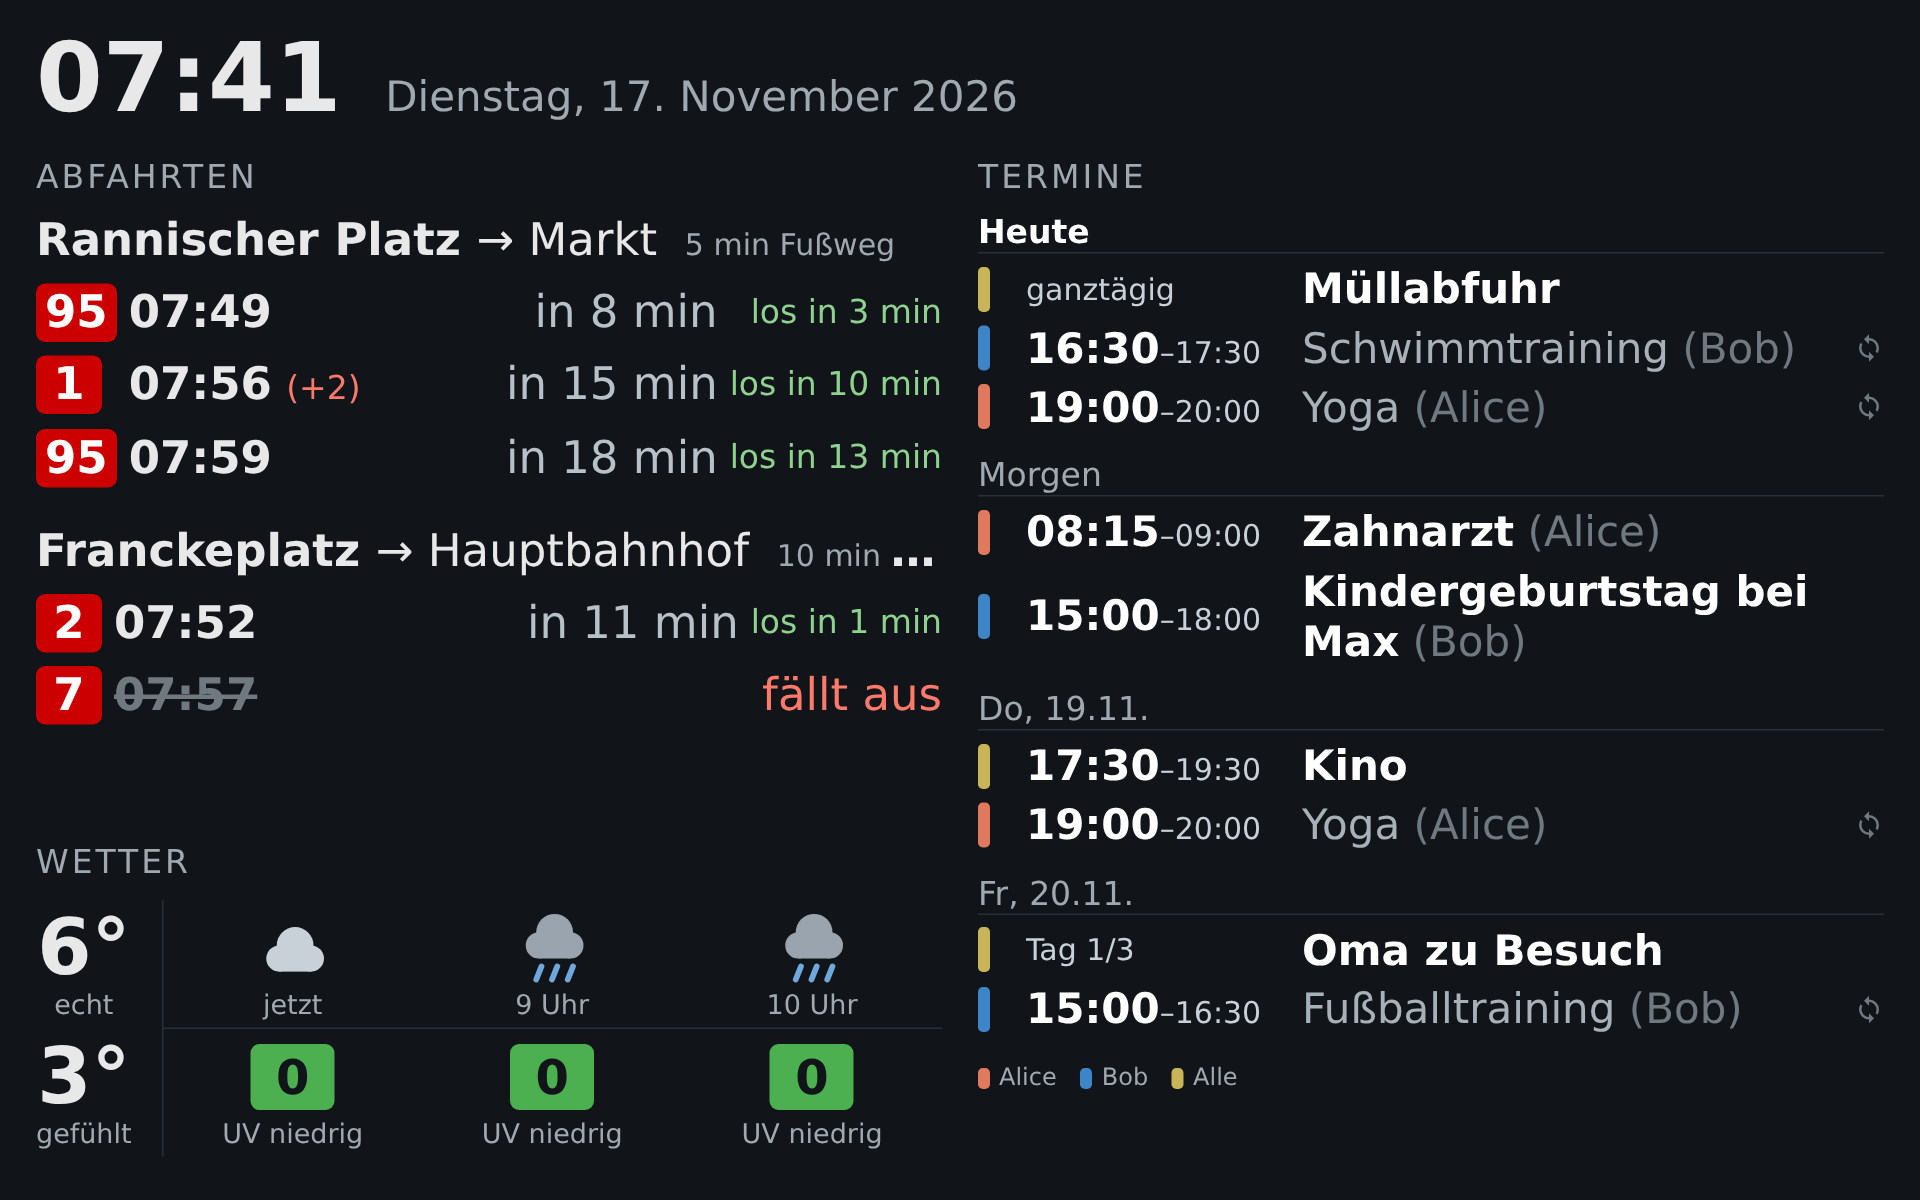
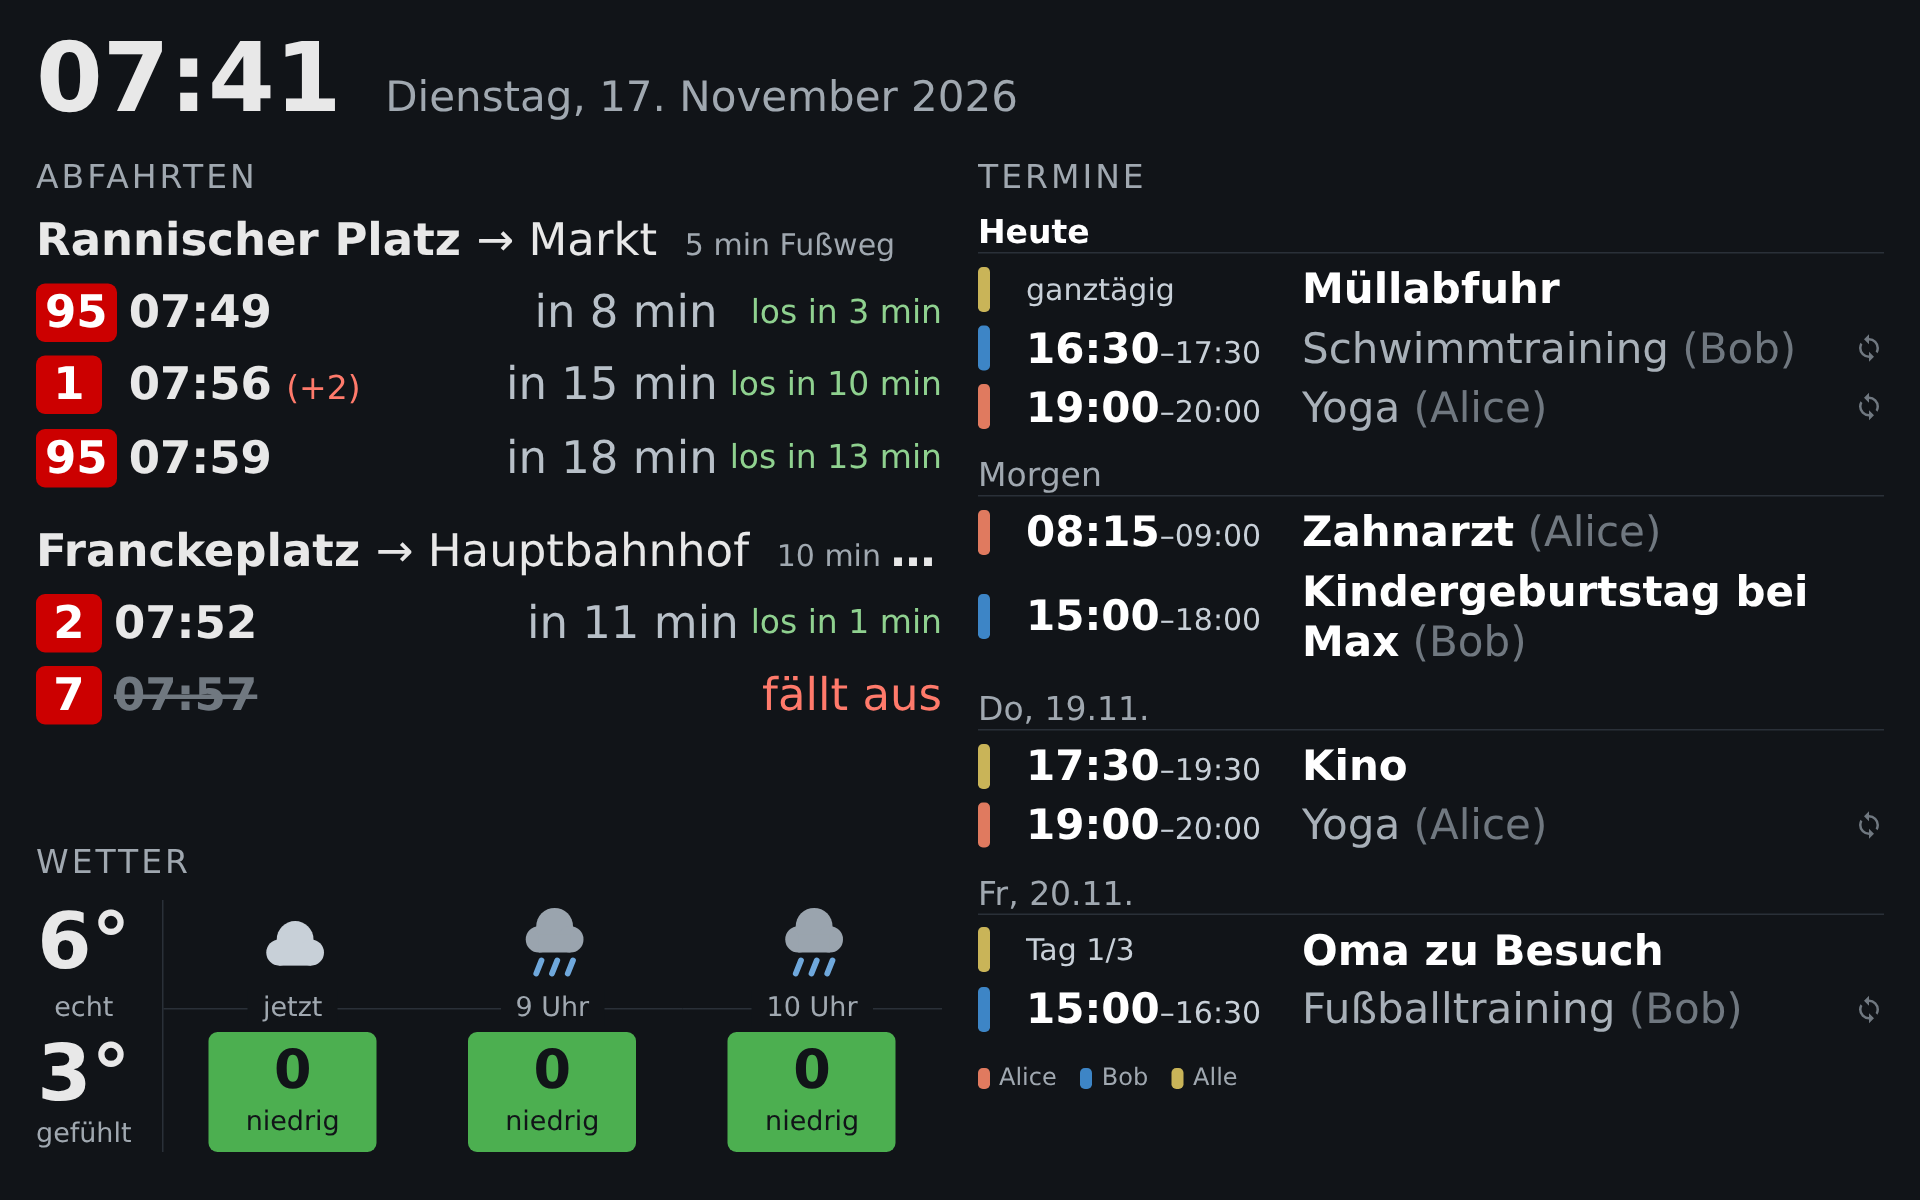
Put the weather times on the line between weather and UV index
The times hold for both rows, so they sit on the divider instead of below
the icons. The UV badge now carries the number and its category ("4 /
mäßig") without the "UV" prefix, as high as the felt temperature tile.

diff --git a/src/home_dashboard/static/style.css b/src/home_dashboard/static/style.css
@@ -410,7 +410,8 @@ body {
 }
 
 /* Weather: 4x2 tiles. Left the temperatures (real, felt), then the weather (top) and the UV index
- * (bottom) now and in about 1 and 2 hours; light lines separate the three parts */
+ * (bottom) now and in about 1 and 2 hours. Light lines separate the three parts; the times sit on
+ * the line between weather and UV. */
 
 .weather-grid {
   width: 100%;
@@ -418,7 +419,7 @@ body {
 }
 
 .weather-grid td {
-  padding: 0.25rem 0;
+  padding: 0;
   text-align: center;
   vertical-align: top;
   white-space: nowrap;
@@ -432,17 +433,11 @@ body {
 }
 
 .weather-grid .weather-slot,
-.weather-grid .weather-uv,
 .weather-grid .weather-empty {
   width: 33%;
 }
 
-.weather-grid .weather-uv,
-.weather-grid tr + tr .weather-empty {
-  border-top: 1px solid #2a3038;
-}
-
-/* Every tile: a 3.5rem high value (temperature, icon, UV badge), a label below */
+/* Every value (temperature, icon) is 3.5rem high, every label 1.5rem */
 .weather-value {
   display: block;
   font-size: 3.25rem;
@@ -460,19 +455,53 @@ body {
 .weather-label {
   display: block;
   font-size: 1.125rem;
+  line-height: 1.5rem;
   color: #a0a8b0;
 }
 
-/* UV index in the colours of the WHO scale */
+/* The line between weather and UV, the time on it (2rem high, as "echt" with its margins) */
+.weather-grid .weather-divider {
+  padding: 0.25rem 0;
+  vertical-align: middle;
+  background: -webkit-linear-gradient(#2a3038, #2a3038) no-repeat center;
+  background: linear-gradient(#2a3038, #2a3038) no-repeat center;
+  background-size: 100% 1px;
+}
+
+.weather-time .weather-label {
+  display: inline-block;
+  padding: 0 0.625rem;
+  background: #111418;
+}
+
+.weather-actual-label {
+  margin: 0.25rem 0;
+}
+
+/* UV index with its category on a badge in the colours of the WHO scale, as high as a temperature
+ * with its label */
 .uv {
   display: block;
-  width: 3.5rem;
-  margin: 0.375rem auto;
-  font-size: 2rem;
-  line-height: 2.75rem;
-  font-weight: bold;
+  width: 7rem;
+  height: 5rem;
+  margin: 0 auto;
+  box-sizing: border-box;
+  padding-top: 0.25rem;
   border-radius: 0.375rem;
   color: #111418;
+}
+
+.uv-value {
+  display: block;
+  font-size: 2.25rem;
+  line-height: 2.75rem;
+  font-weight: bold;
+}
+
+.uv-label {
+  display: block;
+  font-size: 1.125rem;
+  line-height: 1.5rem;
 }
 
 .uv-low { background: #4caf50; }

diff --git a/src/home_dashboard/templates/widgets/weather.html b/src/home_dashboard/templates/widgets/weather.html
@@ -3,22 +3,26 @@
 {% if weather.unavailable %}
 <p class="notice">Wetter nicht verfügbar</p>
 {% else %}
-{#- 4x2 tiles: temperatures | weather now, +1 h, +2 h / UV index at the same times.
-    A table keeps rows and columns aligned without Grid (old WebViews). #}
+{#- 4x2 tiles: temperatures | weather now, +1 h, +2 h / UV index at the same times. The times sit on
+    the line between weather and UV, they hold for both. A table keeps rows and columns aligned
+    without Grid (old WebViews). #}
 {%- set missing = range(3 - weather.slots | length) %}
 <table class="weather-grid">
   <tr>
-    <td class="weather-temperature">
+    <td class="weather-temperature" rowspan="2">
       <span class="weather-value weather-actual">{{ weather.temperature }}°</span>
-      <span class="weather-label">echt</span>
+      <span class="weather-label weather-actual-label">echt</span>
     </td>
     {% for slot in weather.slots %}
-    <td class="weather-slot">
-      {{ icons.icon(slot.condition.icon, slot.condition.label) }}
-      <span class="weather-label weather-slot-label">{{ slot.label }}</span>
-    </td>
+    <td class="weather-slot">{{ icons.icon(slot.condition.icon, slot.condition.label) }}</td>
     {% endfor %}
     {% for _ in missing %}<td class="weather-empty"></td>{% endfor %}
+  </tr>
+  <tr>
+    {% for slot in weather.slots %}
+    <td class="weather-divider weather-time"><span class="weather-label">{{ slot.label }}</span></td>
+    {% endfor %}
+    {% for _ in missing %}<td class="weather-divider"></td>{% endfor %}
   </tr>
   <tr>
     <td class="weather-temperature">
@@ -28,8 +32,10 @@
     {% for slot in weather.slots %}
     <td class="weather-uv">
       {%- if slot.uv %}
-      <span class="uv uv-{{ slot.uv.level }}" title="UV-Index {{ slot.uv.value }}: {{ slot.uv.label }}">{{ slot.uv.value }}</span>
-      <span class="weather-label weather-uv-label">UV {{ slot.uv.label }}</span>
+      <span class="uv uv-{{ slot.uv.level }}" title="UV-Index {{ slot.uv.value }}: {{ slot.uv.label }}">
+        <span class="uv-value">{{ slot.uv.value }}</span>
+        <span class="uv-label">{{ slot.uv.label }}</span>
+      </span>
       {%- endif %}
     </td>
     {% endfor %}

diff --git a/tests/html.py b/tests/html.py
@@ -143,13 +143,13 @@ def titles(events: list[dict]) -> list[str]:
 
 
 class _WeatherParser(HTMLParser):
-    """The tiles: temperatures now (by label), the slots (now, +1 h, +2 h) with label, icon and its
-    description, and the UV index at the same times."""
+    """The tiles: temperatures now (by label), the slots (now, +1 h, +2 h) with icon and its
+    description, the times on the line below them, and the UV index at the same times."""
 
     def __init__(self) -> None:
         super().__init__()
-        self.weather: dict = {"notices": []}
-        self.tiles: dict[str, list[dict]] = {"temperature": [], "slot": [], "uv": []}
+        self.notices: list[str] = []
+        self.tiles: dict[str, list[dict]] = {"temperature": [], "slot": [], "time": [], "uv": []}
         self._tile: dict | None = None
         self._field: str | None = None
         self._text: list[str] = []
@@ -159,7 +159,8 @@ class _WeatherParser(HTMLParser):
         classes = (attributes.get("class") or "").split()
         tiles = {
             "weather-temperature": ("temperature", {"value": "", "label": ""}),
-            "weather-slot": ("slot", {"label": "", "icon": None, "condition": ""}),
+            "weather-slot": ("slot", {"icon": None, "condition": ""}),
+            "weather-time": ("time", {"label": ""}),
             "weather-uv": ("uv", {"value": None, "level": None, "label": None}),
         }
         if tag == "td":
@@ -172,18 +173,20 @@ class _WeatherParser(HTMLParser):
             self._start("condition")
         elif "notice" in classes:
             self._start("notice")
-        elif self._tile is not None and {"weather-value", "uv"} & set(classes):
-            if "uv" in classes:
-                self._tile["level"] = next(c.removeprefix("uv-") for c in classes if c != "uv")
+        elif self._tile is None:
+            return
+        elif "uv" in classes:
+            self._tile["level"] = next(c.removeprefix("uv-") for c in classes if c != "uv")
+        elif {"weather-value", "uv-value"} & set(classes):
             self._start("value")
-        elif self._tile is not None and "weather-label" in classes:
+        elif {"weather-label", "uv-label"} & set(classes):
             self._start("label")
 
     def handle_endtag(self, tag: str) -> None:
         if self._field is not None and tag in ("span", "title", "p"):
             text = " ".join("".join(self._text).split())
             if self._field == "notice":
-                self.weather["notices"].append(text)
+                self.notices.append(text)
             else:
                 self._tile[self._field] = text
             self._field = None
@@ -200,12 +203,19 @@ class _WeatherParser(HTMLParser):
 
 def weather(html: str) -> dict:
     """{temperatures: {"echt": "9°", "gefühlt": "6°"} (empty if not shown),
-    slots: [{label, icon, condition}],
-    uv: [{value: "1", level: "low", label: "UV niedrig"}] (None each without a UV index),
+    slots: [{label: "jetzt", icon, condition}],
+    uv: [{value: "1", level: "low", label: "niedrig"}] (None each without a UV index),
     notices: [text]}"""
     parser = _WeatherParser()
     parser.feed(html)
     tiles = parser.tiles
-    parser.weather["temperatures"] = {t["label"]: t["value"] for t in tiles["temperature"]}
-    parser.weather["slots"], parser.weather["uv"] = tiles["slot"], tiles["uv"]
-    return parser.weather
+    assert len(tiles["time"]) == len(tiles["slot"]) == len(tiles["uv"]), tiles
+    return {
+        "temperatures": {tile["label"]: tile["value"] for tile in tiles["temperature"]},
+        "slots": [
+            {"label": time["label"], **slot}
+            for time, slot in zip(tiles["time"], tiles["slot"], strict=True)
+        ],
+        "uv": tiles["uv"],
+        "notices": parser.notices,
+    }

diff --git a/tests/test_layout.py b/tests/test_layout.py
@@ -196,21 +196,40 @@ def test_wide_temperatures_do_not_push_into_the_weather_icons(open_dashboard, op
     assert_fits(page)
 
 
-WEATHER_TILES = """() => [...document.querySelectorAll('.weather-grid tr')].map((row) =>
-    [...row.children].map((cell) => {
-        const box = cell.getBoundingClientRect();
-        return {left: box.left, right: box.right, top: box.top, bottom: box.bottom};
-    }))"""
+WEATHER_TILES = """() => {
+    const box = (el) => {
+        const b = el.getBoundingClientRect();
+        return {left: b.left, right: b.right, top: b.top, bottom: b.bottom};
+    };
+    const all = (selector) => [...document.querySelectorAll(selector)].map(box);
+    return {
+        rows: [...document.querySelectorAll('.weather-grid tr')]
+            .map((row) => [...row.children].map(box)),
+        icons: all('.weather-slot .weather-icon'),
+        times: all('.weather-time .weather-label'),
+        uv: all('.uv'),
+        real: box(document.querySelector('.weather-actual-label')),
+    };
+}"""
 
 
 @pytest.mark.parametrize("viewport", VIEWPORTS, ids=lambda size: f"{size[0]}x{size[1]}")
-def test_weather_tiles_form_a_grid_of_four_by_two(open_dashboard, viewport):
-    rows = open_dashboard(viewport).evaluate(WEATHER_TILES)
+def test_weather_tiles_form_a_grid_of_four_by_two_with_the_times_on_the_line(
+    open_dashboard, viewport
+):
+    tiles = open_dashboard(viewport).evaluate(WEATHER_TILES)
 
-    assert [len(row) for row in rows] == [4, 4]
-    top, bottom = rows
+    top, line, bottom = tiles["rows"]
+    assert [len(row) for row in (top, line, bottom)] == [4, 3, 4]
     for upper, lower in zip(top, bottom, strict=True):
         assert (upper["left"], upper["right"]) == pytest.approx((lower["left"], lower["right"]))
-        assert upper["bottom"] <= lower["top"] + 1
+    for upper, middle in zip(top[1:], line, strict=True):
+        assert (upper["left"], upper["right"]) == pytest.approx((middle["left"], middle["right"]))
     widths = [tile["right"] - tile["left"] for tile in top[1:]]
     assert max(widths) - min(widths) <= 1, "weather and UV tiles share the width equally"
+
+    for icon, time, uv, cell in zip(tiles["icons"], tiles["times"], tiles["uv"], line, strict=True):
+        assert icon["bottom"] <= time["top"] and time["bottom"] <= uv["top"]
+        middle = (time["top"] + time["bottom"]) / 2
+        assert middle == pytest.approx((cell["top"] + cell["bottom"]) / 2, abs=1), "on the line"
+        assert time["top"] == pytest.approx(tiles["real"]["top"], abs=1), "level with 'echt'"

diff --git a/tests/test_weather.py b/tests/test_weather.py
@@ -61,21 +61,21 @@ def test_shows_temperature_now_and_the_weather_and_uv_index_now_in_one_and_in_tw
     ]
     # current 0.9, 16 o'clock 0.2, 17 o'clock 0.0
     assert [tile["value"] for tile in widget["uv"]] == ["1", "0", "0"]
-    assert widget["uv"][0] == {"value": "1", "level": "low", "label": "UV niedrig"}
+    assert widget["uv"][0] == {"value": "1", "level": "low", "label": "niedrig"}
 
 
 @pytest.mark.parametrize(
     ("uv_index", "shown_as", "level", "label"),
     [
-        (0.0, "0", "low", "UV niedrig"),
-        (2.49, "2", "low", "UV niedrig"),
-        (2.5, "3", "moderate", "UV mäßig"),  # rounded half up, then categorized
-        (5.4, "5", "moderate", "UV mäßig"),
-        (6.0, "6", "high", "UV hoch"),
-        (7.6, "8", "very-high", "UV sehr hoch"),
-        (10.4, "10", "very-high", "UV sehr hoch"),
-        (11.0, "11", "extreme", "UV extrem"),
-        (13.2, "13", "extreme", "UV extrem"),
+        (0.0, "0", "low", "niedrig"),
+        (2.49, "2", "low", "niedrig"),
+        (2.5, "3", "moderate", "mäßig"),  # rounded half up, then categorized
+        (5.4, "5", "moderate", "mäßig"),
+        (6.0, "6", "high", "hoch"),
+        (7.6, "8", "very-high", "sehr hoch"),
+        (10.4, "10", "very-high", "sehr hoch"),
+        (11.0, "11", "extreme", "extrem"),
+        (13.2, "13", "extreme", "extrem"),
     ],
 )
 def test_uv_index_is_colour_coded_on_the_who_scale(

diff --git a/docs/requirements.md b/docs/requirements.md
@@ -67,12 +67,13 @@ when leaving the house or planning the week. The dashboard is extensible: new wi
 - 4x2 tiles, nothing more detailed, three parts separated by light lines:
   - Left: the current temperature for the home location (`home.lat` / `home.lon`), the measured one on
     top ("9°", labelled "echt"), the felt one below ("6°", labelled "gefühlt").
-  - Top right: the weather (icon) now and for the full hours nearest to now + 1 hour and now + 2 hours,
-    labelled with their clock time ("jetzt", "16 Uhr", "17 Uhr"). The German description
-    ("Leicht bewölkt") is the icon's title.
-  - Bottom right: the UV index at the same three times, a whole number on a badge in the colours of the
-    WHO scale, labelled with its category ("UV niedrig" 0-2, "mäßig" 3-5, "hoch" 6-7, "sehr hoch" 8-10,
+  - Top right: the weather (icon) now and for the full hours nearest to now + 1 hour and now + 2 hours.
+    The German description ("Leicht bewölkt") is the icon's title.
+  - Bottom right: the UV index at the same three times, a badge in the colours of the WHO scale with
+    the whole number and its category ("niedrig" 0-2, "mäßig" 3-5, "hoch" 6-7, "sehr hoch" 8-10,
     "extrem" 11+).
+  - The clock times ("jetzt", "16 Uhr", "17 Uhr") sit on the line between weather and UV index, they
+    hold for both.
 - Day and night icons (sun / moon) according to daylight at that time.
 - The widget never cuts its tiles: on small displays it takes more than a third of the column and the
   departures give up rows.
